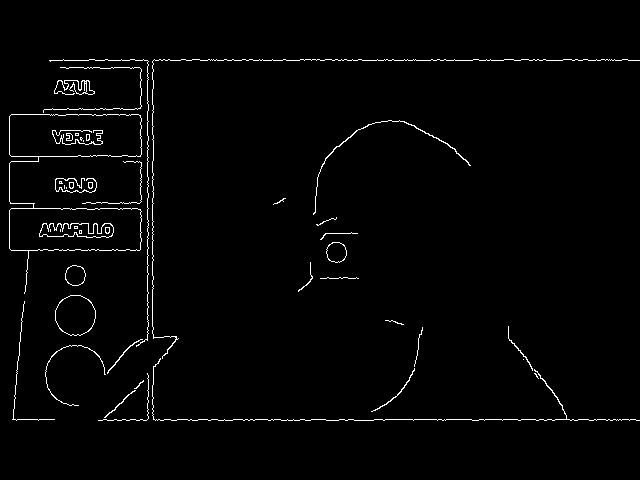
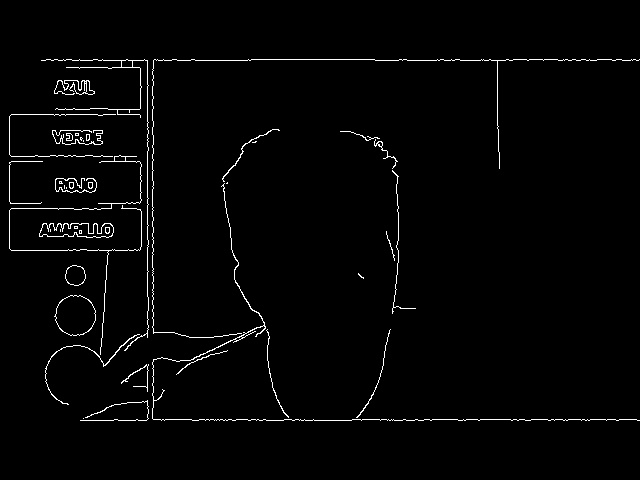
Imagenes

diff --git a/camera.py b/camera.py
@@ -30,6 +30,15 @@ def _pixel_counter():
 	mask = image_binarized == 255
 	return np.sum(mask)
 
+def _get_draw_image():
+	images = os.listdir(os.path.join('Imagenes','Dibujos'))
+	random = np.random.randint(0,len(images))
+
+	random_image_path = os.path.join('Imagenes','Dibujos',images[random])
+	random_image = cv2.imread(random_image_path)
+
+	return random_image
+
 def delimit_screen(frame):
 	start_point = (MENU_LIMIT_AREA,0)
 	end_point = (MENU_LIMIT_AREA,500)
@@ -79,6 +88,7 @@ color_idx = 0
 brush_idx = 0
 
 paintWindow = np.zeros((471,636,3)) + 255
+paintWindow = _get_draw_image()
 paintWindow = _paint_menu(paintWindow,colors)
 paintWindow = _paint_rules(paintWindow,colors,color_idx,brushes,brush_idx)
 cv2.namedWindow('Paint', cv2.WINDOW_AUTOSIZE)
